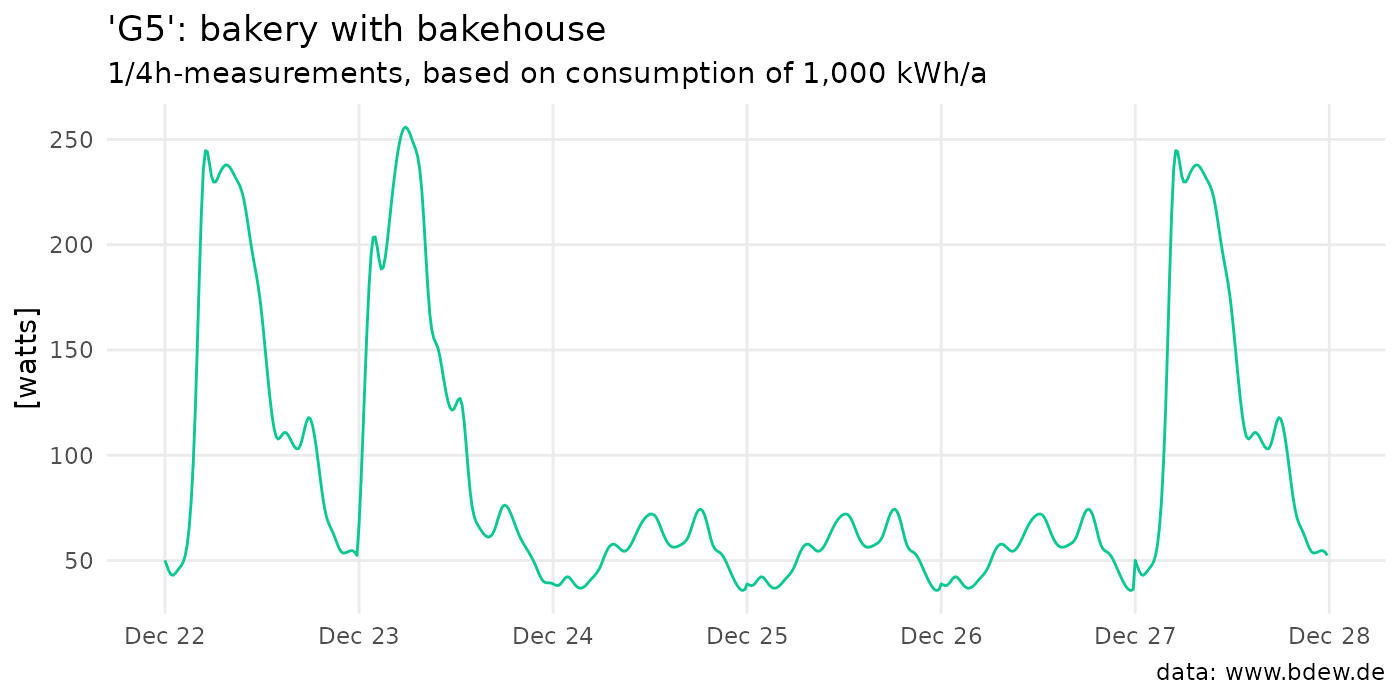
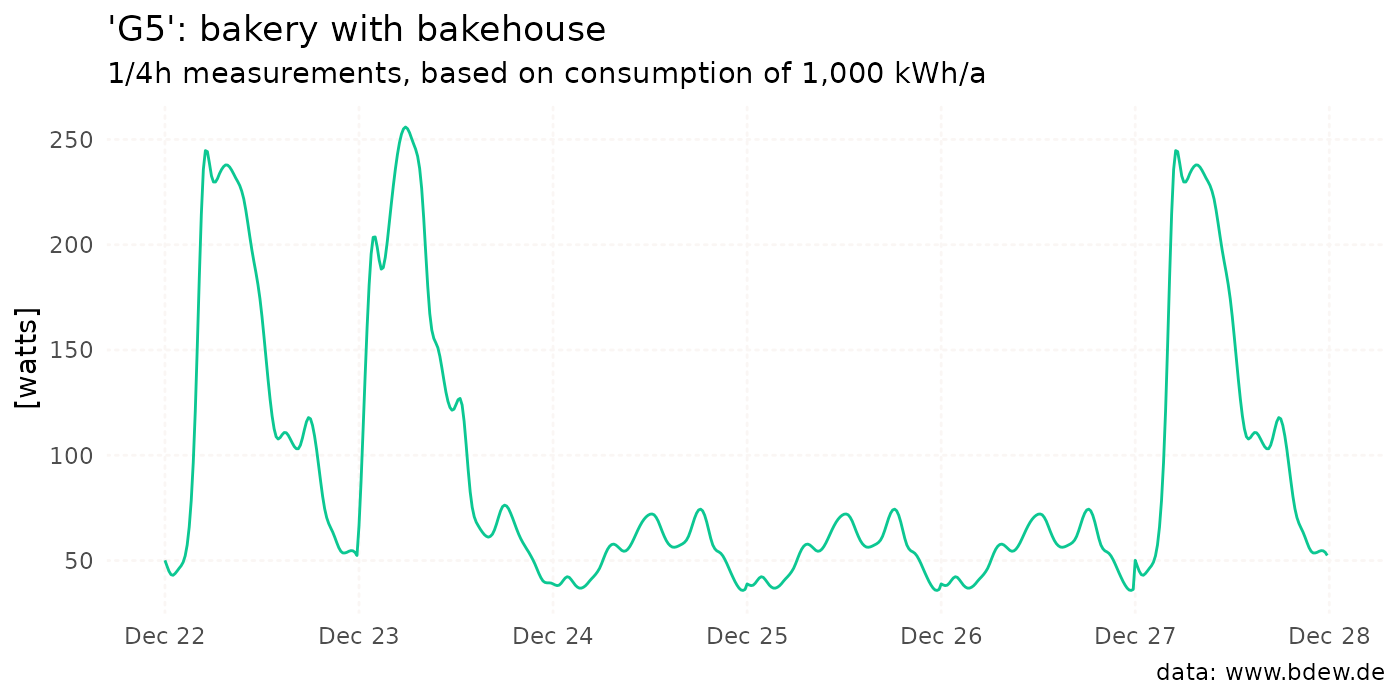
Deploying to gh-pages from @ flrd/standardlastprofile@7e2a223ec3bfba39816d9a991a93d812dd507851 🚀

Changed region(s): [[0.1229, 0.09, 0.7064, 0.12]]

diff --git a/index.html b/index.html
@@ -7,12 +7,11 @@
 <meta name="viewport" content="width=device-width, initial-scale=1, shrink-to-fit=no">
 <meta name="description" content='Data on standard load profiles from the German Association of 
   Energy and Water Industries (BDEW Bundesverband der Energie- und 
-  Wasserwirtschaft e.V.) in a tidy format. This package also offers an interface
-  for generating a standard load profile over a user-defined period. The data 
-  and methodology are described in VDEW (1999), "Repräsentative 
-  VDEW-Lastprofile", 
+  Wasserwirtschaft e.V.) in a tidy format. The data and methodology are 
+  described in VDEW (1999), "Repräsentative VDEW-Lastprofile", 
   &lt;https://www.bdew.de/media/documents/1999_Repraesentative-VDEW-Lastprofile.pdf&gt;.
-  For the algorithm to generate a standard load profile, see VDEW (2000), 
+  The package also offers an interface for generating a standard load profile 
+  over a user-defined period. For the algorithm, see VDEW (2000), 
   "Anwendung der Repräsentativen VDEW-Lastprofile step-by-step",
   &lt;https://www.bdew.de/media/documents/2000131_Anwendung-repraesentativen_Lastprofile-Step-by-step.pdf&gt;.'>
 <title>Data Package for BDEW Standard Load Profiles in Electricity • standardlastprofile</title>
@@ -23,12 +22,11 @@
 <!-- bootstrap-toc --><script src="https://cdn.jsdelivr.net/gh/afeld/bootstrap-toc@v1.0.1/dist/bootstrap-toc.min.js" integrity="sha256-4veVQbu7//Lk5TSmc7YV48MxtMy98e26cf5MrgZYnwo=" crossorigin="anonymous"></script><!-- headroom.js --><script src="https://cdnjs.cloudflare.com/ajax/libs/headroom/0.11.0/headroom.min.js" integrity="sha256-AsUX4SJE1+yuDu5+mAVzJbuYNPHj/WroHuZ8Ir/CkE0=" crossorigin="anonymous"></script><script src="https://cdnjs.cloudflare.com/ajax/libs/headroom/0.11.0/jQuery.headroom.min.js" integrity="sha256-ZX/yNShbjqsohH1k95liqY9Gd8uOiE1S4vZc+9KQ1K4=" crossorigin="anonymous"></script><!-- clipboard.js --><script src="https://cdnjs.cloudflare.com/ajax/libs/clipboard.js/2.0.6/clipboard.min.js" integrity="sha256-inc5kl9MA1hkeYUt+EC3BhlIgyp/2jDIyBLS6k3UxPI=" crossorigin="anonymous"></script><!-- search --><script src="https://cdnjs.cloudflare.com/ajax/libs/fuse.js/6.4.6/fuse.js" integrity="sha512-zv6Ywkjyktsohkbp9bb45V6tEMoWhzFzXis+LrMehmJZZSys19Yxf1dopHx7WzIKxr5tK2dVcYmaCk2uqdjF4A==" crossorigin="anonymous"></script><script src="https://cdnjs.cloudflare.com/ajax/libs/autocomplete.js/0.38.0/autocomplete.jquery.min.js" integrity="sha512-GU9ayf+66Xx2TmpxqJpliWbT5PiGYxpaG8rfnBEk1LL8l1KGkRShhngwdXK1UgqhAzWpZHSiYPc09/NwDQIGyg==" crossorigin="anonymous"></script><script src="https://cdnjs.cloudflare.com/ajax/libs/mark.js/8.11.1/mark.min.js" integrity="sha512-5CYOlHXGh6QpOFA/TeTylKLWfB3ftPsde7AnmhuitiTX4K5SqCLBeKro6sPS8ilsz1Q4NRx3v8Ko2IBiszzdww==" crossorigin="anonymous"></script><!-- pkgdown --><script src="pkgdown.js"></script><meta property="og:title" content="Data Package for BDEW Standard Load Profiles in Electricity">
 <meta property="og:description" content='Data on standard load profiles from the German Association of 
   Energy and Water Industries (BDEW Bundesverband der Energie- und 
-  Wasserwirtschaft e.V.) in a tidy format. This package also offers an interface
-  for generating a standard load profile over a user-defined period. The data 
-  and methodology are described in VDEW (1999), "Repräsentative 
-  VDEW-Lastprofile", 
+  Wasserwirtschaft e.V.) in a tidy format. The data and methodology are 
+  described in VDEW (1999), "Repräsentative VDEW-Lastprofile", 
   &lt;https://www.bdew.de/media/documents/1999_Repraesentative-VDEW-Lastprofile.pdf&gt;.
-  For the algorithm to generate a standard load profile, see VDEW (2000), 
+  The package also offers an interface for generating a standard load profile 
+  over a user-defined period. For the algorithm, see VDEW (2000), 
   "Anwendung der Repräsentativen VDEW-Lastprofile step-by-step",
   &lt;https://www.bdew.de/media/documents/2000131_Anwendung-repraesentativen_Lastprofile-Step-by-step.pdf&gt;.'>
 <!-- mathjax --><script src="https://cdnjs.cloudflare.com/ajax/libs/mathjax/2.7.5/MathJax.js" integrity="sha256-nvJJv9wWKEm88qvoQl9ekL2J+k/RWIsaSScxxlsrv8k=" crossorigin="anonymous"></script><script src="https://cdnjs.cloudflare.com/ajax/libs/mathjax/2.7.5/config/TeX-AMS-MML_HTMLorMML.js" integrity="sha256-84DKXVJXs0/F8OTMzX4UR909+jtl4G7SPypPavF+GfA=" crossorigin="anonymous"></script><!--[if lt IE 9]>
@@ -96,38 +94,38 @@
 <div class="section level2">
 <h2 id="installation">Installation<a class="anchor" aria-label="anchor" href="#installation"></a>
 </h2>
-<!-- You can install the released version of standardlastprofile from CRAN with: -->
+<!-- You can install standardlastprofile from CRAN with: -->
 <!-- ```{r eval=FALSE} -->
 <!-- install.packages("standardlastprofile") -->
 <!-- ``` -->
-<p>To install the development version of standardlastprofile from <a href="https://github.com/" class="external-link">GitHub</a>, call:</p>
+<p>You can install the development version of standardlastprofile from <a href="https://github.com/" class="external-link">GitHub</a>, call:</p>
 <div class="sourceCode" id="cb1"><pre class="downlit sourceCode r">
 <code class="sourceCode R"><span><span class="co"># install.packages("devtools")</span></span>
 <span><span class="fu">devtools</span><span class="fu">::</span><span class="fu">install_github</span><span class="op">(</span><span class="st">"flrd/standardlastprofile"</span><span class="op">)</span></span></code></pre></div>
 </div>
 <div class="section level2">
-<h2 id="what-will-you-get">What will you get<a class="anchor" aria-label="anchor" href="#what-will-you-get"></a>
+<h2 id="included-features">Included Features<a class="anchor" aria-label="anchor" href="#included-features"></a>
 </h2>
 <ul>
 <li>
-<code>slp</code> – dataset for BDEW standard load profiles in electricity</li>
+<code>slp</code> – A dataset containing BDEW standard load profiles for electricity.</li>
 <li>
-<code><a href="reference/slp_generate.html">slp_generate()</a></code> – interface to generate a standard load profile for a user-defined period of time</li>
+<code><a href="reference/slp_generate.html">slp_generate()</a></code> – An interface for generating a standard load profile for a user-defined time period.</li>
 <li>
-<code><a href="reference/slp_info.html">slp_info()</a></code> – function for retrieving details of standard load profiles</li>
+<code><a href="reference/slp_info.html">slp_info()</a></code> – A function for retrieving details of standard load profiles.</li>
 </ul>
 </div>
 <div class="section level2">
 <h2 id="about-the-data">About the data<a class="anchor" aria-label="anchor" href="#about-the-data"></a>
 </h2>
-<p>The standardlastprofile package contains one dataset called <code>slp</code>. The data was published in 1999. It is based on an analysis of 1,209 load profiles of low-voltage electricity consumers in Germany.<a class="footnote-ref" tabindex="0" data-bs-toggle="popover" data-bs-content='&lt;p&gt;More information on the data and methodology can be found &lt;a href="https://www.bdew.de/media/documents/1999_Repraesentative-VDEW-Lastprofile.pdf" class="external-link"&gt;here&lt;/a&gt;.&lt;/p&gt;'><sup>1</sup></a> In total there are 9,504 observations of 5 variables:</p>
+<p>The standardlastprofile package encompasses a dataset named slp. This dataset results from an analysis of 1,209 load profiles of low-voltage electricity consumers in Germany, published in 1999.<a class="footnote-ref" tabindex="0" data-bs-toggle="popover" data-bs-content='&lt;p&gt;More information on the data and methodology can be found &lt;a href="https://www.bdew.de/media/documents/1999_Repraesentative-VDEW-Lastprofile.pdf" class="external-link"&gt;here&lt;/a&gt;.&lt;/p&gt;'><sup>1</sup></a> It comprises a total of 9,504 observations across 5 variables:</p>
 <ul>
 <li>
-<code>profile_id</code>: identifier of standard load profile</li>
+<code>profile_id</code>: identifier of a standard load profile</li>
 <li>
 <code>period</code>: one of “summer”, “winter”, “transition”</li>
 <li>
-<code>day</code>: one of “saturday”, “sunday”, “workday”</li>
+<code>day</code>: one of “workday”, “saturday”, “sunday”</li>
 <li>
 <code>timestamp</code>: format “%H:%M”</li>
 <li>
@@ -142,7 +140,7 @@
 <span><span class="co">#&gt;  $ timestamp : chr  "00:00" "00:15" "00:30" "00:45" ...</span></span>
 <span><span class="co">#&gt;  $ watts     : num  70.8 68.2 65.9 63.3 59.5 55 50.5 46.6 43.9 42.3 ...</span></span></code></pre></div>
 <p>In the context of the German electricity market, the term ‘Standard Load Profile’ denotes a representative pattern of electricity consumption over a specific period. These profiles portray anticipated electricity consumption for diverse customer groups, like households or businesses. While not an exact match for an individual customer’s consumption profile, they serve as a valid approximation for larger groups of similar customers.</p>
-<p>For each unique combination of <code>profile_id</code>, <code>period</code> and <code>day</code> there are 96 x 1/4 hour measurements in watts. If <code>H0</code> keeps you puzzled, you are not alone:</p>
+<p>For each unique combination of <code>profile_id</code>, <code>period</code> and <code>day</code> there are 96 x 1/4 hour measurements in watts. If you have no idea what <code>H0</code> means, you are not alone:</p>
 <ul>
 <li>
 <code>H0</code>: households (German: “Haushalte”)</li>
@@ -153,20 +151,20 @@
 </ul>
 <p>For more details, call the <code><a href="reference/slp_info.html">slp_info()</a></code> function.</p>
 <div class="sourceCode" id="cb3"><pre class="downlit sourceCode r">
-<code class="sourceCode R"><span><span class="fu"><a href="reference/slp_info.html">slp_info</a></span><span class="op">(</span>profile_id <span class="op">=</span> <span class="st">"H0"</span>, language <span class="op">=</span> <span class="st">"EN"</span><span class="op">)</span></span>
+<code class="sourceCode R"><span><span class="fu"><a href="reference/slp_info.html">slp_info</a></span><span class="op">(</span>profile_id <span class="op">=</span> <span class="st">"H0"</span>, language <span class="op">=</span> <span class="st">"DE"</span><span class="op">)</span></span>
 <span><span class="co">#&gt; $H0</span></span>
 <span><span class="co">#&gt; $H0$profile</span></span>
 <span><span class="co">#&gt; [1] "H0"</span></span>
 <span><span class="co">#&gt; </span></span>
 <span><span class="co">#&gt; $H0$description</span></span>
-<span><span class="co">#&gt; [1] "household"</span></span>
+<span><span class="co">#&gt; [1] "Haushalt"</span></span>
 <span><span class="co">#&gt; </span></span>
 <span><span class="co">#&gt; $H0$details</span></span>
-<span><span class="co">#&gt; [1] "This profile includes all households with exclusively and predominantly private consumption. Households with predominantly private electrical consumption, i.e. also with minor commercial consumption are e.g. sales representatives, home workers, etc. with an office in the household. The Household profile is not applicable for special applications such as storage heaters or heat pumps."</span></span></code></pre></div>
+<span><span class="co">#&gt; [1] "In dieses Profil werden alle Haushalte mit ausschließlichem und überwiegendem Privatverbrauch eingeordnet. Haushalte mit überwiegend privatem elektrischen Verbrauch, d.h. auch mit geringfügigem gewerblichen Bedarf sind z.B. Handelsvertreter, Heimarbeiter u.ä. mit Büro im Haushalt. Das Profil Haushalt ist nicht anwendbar bei Sonderanwendungen wie z.B. elektrischen Speicherheizungen oder Wärmepumpen."</span></span></code></pre></div>
 <div class="section level3">
 <h3 id="generate-a-standard-load-profile">Generate a standard load profile<a class="anchor" aria-label="anchor" href="#generate-a-standard-load-profile"></a>
 </h3>
-<p>To create a standard load profile for a specified time period, utilize the <code><a href="reference/slp_generate.html">slp_generate()</a></code> function:</p>
+<p>To create a standard load profile for a specified time period, call the <code><a href="reference/slp_generate.html">slp_generate()</a></code> function:</p>
 <div class="sourceCode" id="cb4"><pre class="downlit sourceCode r">
 <code class="sourceCode R"><span><span class="va">G5</span> <span class="op">&lt;-</span> <span class="fu"><a href="reference/slp_generate.html">slp_generate</a></span><span class="op">(</span></span>
 <span>  profile_id <span class="op">=</span> <span class="st">"G5"</span>,</span>
@@ -189,7 +187,7 @@
 <div class="section level2">
 <h2 id="source">Source<a class="anchor" aria-label="anchor" href="#source"></a>
 </h2>
-<p>Data and information about the methodology can be found on website of the BDEW: <a href="https://www.bdew.de/energie/standardlastprofile-strom/" class="external-link uri">https://www.bdew.de/energie/standardlastprofile-strom/</a></p>
+<p>You can access the studies and data on standard load profiles for electricity by downloading them from the BDEW website: <a href="https://www.bdew.de/energie/standardlastprofile-strom/" class="external-link uri">https://www.bdew.de/energie/standardlastprofile-strom/</a></p>
 </div>
 <div class="section level2">
 <h2 id="code-of-conduct">Code of Conduct<a class="anchor" aria-label="anchor" href="#code-of-conduct"></a>

diff --git a/reference/standardlastprofile-package.html b/reference/standardlastprofile-package.html
@@ -1,5 +1,5 @@
 <!DOCTYPE html>
-<!-- Generated by pkgdown: do not edit by hand --><html lang="en"><head><meta http-equiv="Content-Type" content="text/html; charset=UTF-8"><meta charset="utf-8"><meta http-equiv="X-UA-Compatible" content="IE=edge"><meta name="viewport" content="width=device-width, initial-scale=1, shrink-to-fit=no"><meta name="description" content='Data on standard load profiles from the German Association of Energy and Water Industries (BDEW Bundesverband der Energie- und Wasserwirtschaft e.V.) in a tidy format. This package also offers an interface for generating a standard load profile over a user-defined period. The data and methodology are described in VDEW (1999), "Repräsentative VDEW-Lastprofile", https://www.bdew.de/media/documents/1999_Repraesentative-VDEW-Lastprofile.pdf. For the algorithm to generate a standard load profile, see VDEW (2000), "Anwendung der Repräsentativen VDEW-Lastprofile step-by-step", https://www.bdew.de/media/documents/2000131_Anwendung-repraesentativen_Lastprofile-Step-by-step.pdf.'><title>standardlastprofile: Data Package for BDEW Standard Load Profiles in Electricity — standardlastprofile-package • standardlastprofile</title><script src="../deps/jquery-3.6.0/jquery-3.6.0.min.js"></script><meta name="viewport" content="width=device-width, initial-scale=1, shrink-to-fit=no"><link href="../deps/bootstrap-5.3.1/bootstrap.min.css" rel="stylesheet"><script src="../deps/bootstrap-5.3.1/bootstrap.bundle.min.js"></script><!-- Font Awesome icons --><link rel="stylesheet" href="https://cdnjs.cloudflare.com/ajax/libs/font-awesome/5.12.1/css/all.min.css" integrity="sha256-mmgLkCYLUQbXn0B1SRqzHar6dCnv9oZFPEC1g1cwlkk=" crossorigin="anonymous"><link rel="stylesheet" href="https://cdnjs.cloudflare.com/ajax/libs/font-awesome/5.12.1/css/v4-shims.min.css" integrity="sha256-wZjR52fzng1pJHwx4aV2AO3yyTOXrcDW7jBpJtTwVxw=" crossorigin="anonymous"><!-- bootstrap-toc --><script src="https://cdn.jsdelivr.net/gh/afeld/bootstrap-toc@v1.0.1/dist/bootstrap-toc.min.js" integrity="sha256-4veVQbu7//Lk5TSmc7YV48MxtMy98e26cf5MrgZYnwo=" crossorigin="anonymous"></script><!-- headroom.js --><script src="https://cdnjs.cloudflare.com/ajax/libs/headroom/0.11.0/headroom.min.js" integrity="sha256-AsUX4SJE1+yuDu5+mAVzJbuYNPHj/WroHuZ8Ir/CkE0=" crossorigin="anonymous"></script><script src="https://cdnjs.cloudflare.com/ajax/libs/headroom/0.11.0/jQuery.headroom.min.js" integrity="sha256-ZX/yNShbjqsohH1k95liqY9Gd8uOiE1S4vZc+9KQ1K4=" crossorigin="anonymous"></script><!-- clipboard.js --><script src="https://cdnjs.cloudflare.com/ajax/libs/clipboard.js/2.0.6/clipboard.min.js" integrity="sha256-inc5kl9MA1hkeYUt+EC3BhlIgyp/2jDIyBLS6k3UxPI=" crossorigin="anonymous"></script><!-- search --><script src="https://cdnjs.cloudflare.com/ajax/libs/fuse.js/6.4.6/fuse.js" integrity="sha512-zv6Ywkjyktsohkbp9bb45V6tEMoWhzFzXis+LrMehmJZZSys19Yxf1dopHx7WzIKxr5tK2dVcYmaCk2uqdjF4A==" crossorigin="anonymous"></script><script src="https://cdnjs.cloudflare.com/ajax/libs/autocomplete.js/0.38.0/autocomplete.jquery.min.js" integrity="sha512-GU9ayf+66Xx2TmpxqJpliWbT5PiGYxpaG8rfnBEk1LL8l1KGkRShhngwdXK1UgqhAzWpZHSiYPc09/NwDQIGyg==" crossorigin="anonymous"></script><script src="https://cdnjs.cloudflare.com/ajax/libs/mark.js/8.11.1/mark.min.js" integrity="sha512-5CYOlHXGh6QpOFA/TeTylKLWfB3ftPsde7AnmhuitiTX4K5SqCLBeKro6sPS8ilsz1Q4NRx3v8Ko2IBiszzdww==" crossorigin="anonymous"></script><!-- pkgdown --><script src="../pkgdown.js"></script><meta property="og:title" content="standardlastprofile: Data Package for BDEW Standard Load Profiles in Electricity — standardlastprofile-package"><meta property="og:description" content='Data on standard load profiles from the German Association of Energy and Water Industries (BDEW Bundesverband der Energie- und Wasserwirtschaft e.V.) in a tidy format. This package also offers an interface for generating a standard load profile over a user-defined period. The data and methodology are described in VDEW (1999), "Repräsentative VDEW-Lastprofile", https://www.bdew.de/media/documents/1999_Repraesentative-VDEW-Lastprofile.pdf. For the algorithm to generate a standard load profile, see VDEW (2000), "Anwendung der Repräsentativen VDEW-Lastprofile step-by-step", https://www.bdew.de/media/documents/2000131_Anwendung-repraesentativen_Lastprofile-Step-by-step.pdf.'><!-- mathjax --><script src="https://cdnjs.cloudflare.com/ajax/libs/mathjax/2.7.5/MathJax.js" integrity="sha256-nvJJv9wWKEm88qvoQl9ekL2J+k/RWIsaSScxxlsrv8k=" crossorigin="anonymous"></script><script src="https://cdnjs.cloudflare.com/ajax/libs/mathjax/2.7.5/config/TeX-AMS-MML_HTMLorMML.js" integrity="sha256-84DKXVJXs0/F8OTMzX4UR909+jtl4G7SPypPavF+GfA=" crossorigin="anonymous"></script><!--[if lt IE 9]>
+<!-- Generated by pkgdown: do not edit by hand --><html lang="en"><head><meta http-equiv="Content-Type" content="text/html; charset=UTF-8"><meta charset="utf-8"><meta http-equiv="X-UA-Compatible" content="IE=edge"><meta name="viewport" content="width=device-width, initial-scale=1, shrink-to-fit=no"><meta name="description" content='Data on standard load profiles from the German Association of Energy and Water Industries (BDEW Bundesverband der Energie- und Wasserwirtschaft e.V.) in a tidy format. The data and methodology are described in VDEW (1999), "Repräsentative VDEW-Lastprofile", https://www.bdew.de/media/documents/1999_Repraesentative-VDEW-Lastprofile.pdf. The package also offers an interface for generating a standard load profile over a user-defined period. For the algorithm, see VDEW (2000), "Anwendung der Repräsentativen VDEW-Lastprofile step-by-step", https://www.bdew.de/media/documents/2000131_Anwendung-repraesentativen_Lastprofile-Step-by-step.pdf.'><title>standardlastprofile: Data Package for BDEW Standard Load Profiles in Electricity — standardlastprofile-package • standardlastprofile</title><script src="../deps/jquery-3.6.0/jquery-3.6.0.min.js"></script><meta name="viewport" content="width=device-width, initial-scale=1, shrink-to-fit=no"><link href="../deps/bootstrap-5.3.1/bootstrap.min.css" rel="stylesheet"><script src="../deps/bootstrap-5.3.1/bootstrap.bundle.min.js"></script><!-- Font Awesome icons --><link rel="stylesheet" href="https://cdnjs.cloudflare.com/ajax/libs/font-awesome/5.12.1/css/all.min.css" integrity="sha256-mmgLkCYLUQbXn0B1SRqzHar6dCnv9oZFPEC1g1cwlkk=" crossorigin="anonymous"><link rel="stylesheet" href="https://cdnjs.cloudflare.com/ajax/libs/font-awesome/5.12.1/css/v4-shims.min.css" integrity="sha256-wZjR52fzng1pJHwx4aV2AO3yyTOXrcDW7jBpJtTwVxw=" crossorigin="anonymous"><!-- bootstrap-toc --><script src="https://cdn.jsdelivr.net/gh/afeld/bootstrap-toc@v1.0.1/dist/bootstrap-toc.min.js" integrity="sha256-4veVQbu7//Lk5TSmc7YV48MxtMy98e26cf5MrgZYnwo=" crossorigin="anonymous"></script><!-- headroom.js --><script src="https://cdnjs.cloudflare.com/ajax/libs/headroom/0.11.0/headroom.min.js" integrity="sha256-AsUX4SJE1+yuDu5+mAVzJbuYNPHj/WroHuZ8Ir/CkE0=" crossorigin="anonymous"></script><script src="https://cdnjs.cloudflare.com/ajax/libs/headroom/0.11.0/jQuery.headroom.min.js" integrity="sha256-ZX/yNShbjqsohH1k95liqY9Gd8uOiE1S4vZc+9KQ1K4=" crossorigin="anonymous"></script><!-- clipboard.js --><script src="https://cdnjs.cloudflare.com/ajax/libs/clipboard.js/2.0.6/clipboard.min.js" integrity="sha256-inc5kl9MA1hkeYUt+EC3BhlIgyp/2jDIyBLS6k3UxPI=" crossorigin="anonymous"></script><!-- search --><script src="https://cdnjs.cloudflare.com/ajax/libs/fuse.js/6.4.6/fuse.js" integrity="sha512-zv6Ywkjyktsohkbp9bb45V6tEMoWhzFzXis+LrMehmJZZSys19Yxf1dopHx7WzIKxr5tK2dVcYmaCk2uqdjF4A==" crossorigin="anonymous"></script><script src="https://cdnjs.cloudflare.com/ajax/libs/autocomplete.js/0.38.0/autocomplete.jquery.min.js" integrity="sha512-GU9ayf+66Xx2TmpxqJpliWbT5PiGYxpaG8rfnBEk1LL8l1KGkRShhngwdXK1UgqhAzWpZHSiYPc09/NwDQIGyg==" crossorigin="anonymous"></script><script src="https://cdnjs.cloudflare.com/ajax/libs/mark.js/8.11.1/mark.min.js" integrity="sha512-5CYOlHXGh6QpOFA/TeTylKLWfB3ftPsde7AnmhuitiTX4K5SqCLBeKro6sPS8ilsz1Q4NRx3v8Ko2IBiszzdww==" crossorigin="anonymous"></script><!-- pkgdown --><script src="../pkgdown.js"></script><meta property="og:title" content="standardlastprofile: Data Package for BDEW Standard Load Profiles in Electricity — standardlastprofile-package"><meta property="og:description" content='Data on standard load profiles from the German Association of Energy and Water Industries (BDEW Bundesverband der Energie- und Wasserwirtschaft e.V.) in a tidy format. The data and methodology are described in VDEW (1999), "Repräsentative VDEW-Lastprofile", https://www.bdew.de/media/documents/1999_Repraesentative-VDEW-Lastprofile.pdf. The package also offers an interface for generating a standard load profile over a user-defined period. For the algorithm, see VDEW (2000), "Anwendung der Repräsentativen VDEW-Lastprofile step-by-step", https://www.bdew.de/media/documents/2000131_Anwendung-repraesentativen_Lastprofile-Step-by-step.pdf.'><!-- mathjax --><script src="https://cdnjs.cloudflare.com/ajax/libs/mathjax/2.7.5/MathJax.js" integrity="sha256-nvJJv9wWKEm88qvoQl9ekL2J+k/RWIsaSScxxlsrv8k=" crossorigin="anonymous"></script><script src="https://cdnjs.cloudflare.com/ajax/libs/mathjax/2.7.5/config/TeX-AMS-MML_HTMLorMML.js" integrity="sha256-84DKXVJXs0/F8OTMzX4UR909+jtl4G7SPypPavF+GfA=" crossorigin="anonymous"></script><!--[if lt IE 9]>
 <script src="https://oss.maxcdn.com/html5shiv/3.7.3/html5shiv.min.js"></script>
 <script src="https://oss.maxcdn.com/respond/1.4.2/respond.min.js"></script>
 <![endif]--></head><body>
@@ -52,7 +52,7 @@
     </div>
 
     <div class="ref-description section level2">
-    <p>Data on standard load profiles from the German Association of Energy and Water Industries (BDEW Bundesverband der Energie- und Wasserwirtschaft e.V.) in a tidy format. This package also offers an interface for generating a standard load profile over a user-defined period. The data and methodology are described in VDEW (1999), "Repräsentative VDEW-Lastprofile", <a href="https://www.bdew.de/media/documents/1999_Repraesentative-VDEW-Lastprofile.pdf" class="external-link">https://www.bdew.de/media/documents/1999_Repraesentative-VDEW-Lastprofile.pdf</a>. For the algorithm to generate a standard load profile, see VDEW (2000), "Anwendung der Repräsentativen VDEW-Lastprofile step-by-step", <a href="https://www.bdew.de/media/documents/2000131_Anwendung-repraesentativen_Lastprofile-Step-by-step.pdf" class="external-link">https://www.bdew.de/media/documents/2000131_Anwendung-repraesentativen_Lastprofile-Step-by-step.pdf</a>.</p>
+    <p>Data on standard load profiles from the German Association of Energy and Water Industries (BDEW Bundesverband der Energie- und Wasserwirtschaft e.V.) in a tidy format. The data and methodology are described in VDEW (1999), "Repräsentative VDEW-Lastprofile", <a href="https://www.bdew.de/media/documents/1999_Repraesentative-VDEW-Lastprofile.pdf" class="external-link">https://www.bdew.de/media/documents/1999_Repraesentative-VDEW-Lastprofile.pdf</a>. The package also offers an interface for generating a standard load profile over a user-defined period. For the algorithm, see VDEW (2000), "Anwendung der Repräsentativen VDEW-Lastprofile step-by-step", <a href="https://www.bdew.de/media/documents/2000131_Anwendung-repraesentativen_Lastprofile-Step-by-step.pdf" class="external-link">https://www.bdew.de/media/documents/2000131_Anwendung-repraesentativen_Lastprofile-Step-by-step.pdf</a>.</p>
     </div>
 
 
@@ -65,7 +65,7 @@
     </div>
     <div class="section level2">
     <h2 id="author">Author<a class="anchor" aria-label="anchor" href="#author"></a></h2>
-    <p><strong>Maintainer</strong>: Markus Döring <a href="mailto:m4rkus.doering@gmail.com">m4rkus.doering@gmail.com</a> [copyright holder]</p>
+    <p><strong>Maintainer</strong>: Markus Döring <a href="mailto:m4rkus.doering@gmail.com">m4rkus.doering@gmail.com</a></p>
     </div>
 
   </main><aside class="col-md-3"><nav id="toc"><h2>On this page</h2>

diff --git a/articles/algorithm-step-by-step.html b/articles/algorithm-step-by-step.html
@@ -104,14 +104,10 @@ profile as the basis for creating a consumption forecast.</p>
 unique combination of <code>profile_id</code>, <code>period</code> and
 <code>day</code>, which we refer to as the “standard load profile”. The
 value for “00:00” indicates the average work done in the morning between
-00:00 and 00:15. The data was collected and analyzed in 1999 by the
-Association of the Electricity Industry<a class="footnote-ref" tabindex="0" data-bs-toggle="popover" data-bs-content="&lt;p&gt;VDEW, which once represented approximately 750 German
-energy supply companies, advocated for their interests with both
-politicians and consumers. In 2007, VDEW merged into the BDEW.&lt;/p&gt;"><sup>2</sup></a> (VDEW) on the basis of
-1,209 measured load profiles of low-voltage customers in Germany<a class="footnote-ref" tabindex="0" data-bs-toggle="popover" data-bs-content='&lt;p&gt;More information on the data and methodology can be
-found &lt;a href="https://www.bdew.de/media/documents/1999_Repraesentative-VDEW-Lastprofile.pdf" class="external-link"&gt;here&lt;/a&gt;.&lt;/p&gt;'><sup>3</sup></a> and is
+00:00 and 00:15. The data was collected and analyzed in 1999 and is
 provided by German Association of Energy and Water Industries (BDEW
-Bundesverband der Energie- und Wasserwirtschaft e.V.).</p>
+Bundesverband der Energie- und Wasserwirtschaft e.V.).<a class="footnote-ref" tabindex="0" data-bs-toggle="popover" data-bs-content='&lt;p&gt;More information on the data and methodology can be
+found &lt;a href="https://www.bdew.de/media/documents/1999_Repraesentative-VDEW-Lastprofile.pdf" class="external-link"&gt;here&lt;/a&gt;.&lt;/p&gt;'><sup>2</sup></a></p>
 <p><img src="algorithm-step-by-step_files/figure-html/small_multiples_vignette-1.png" alt="Small multiple line chart of 11 standard load profiles published by the German Association of Energy and Water Industries (BDEW Bundesverband der Energie- und Wasserwirtschaft e.V.). The lines compare the consumption for three different periods over a year, and also compare the consumption between different days of a week." width="95%" style="display: block; margin: auto;"></p>
 <p>Those measurements are normalized to an annual consumption of 1,000
 kWh. So, if we sum up all the quarter-hour consumption values for a
@@ -126,7 +122,7 @@ year, the result is (approximately) 1,000 kWh/year.</p>
 <div class="sourceCode" id="cb3"><pre class="downlit sourceCode r">
 <code class="sourceCode R"><span><span class="fu"><a href="https://rdrr.io/r/base/sum.html" class="external-link">sum</a></span><span class="op">(</span><span class="va">H0_2024</span><span class="op">$</span><span class="va">watts</span><span class="op">)</span></span>
 <span><span class="co">#&gt; [1] 4008335</span></span></code></pre></div>
-<p>‘Hold on - didn’t you just say 1,000?!’ you might be thinking. Yes,
+<p>‘Hold on - didn’t you just say 1,000?!’, you might be thinking. Yes,
 you are correct; we must <a href="https://en.wikipedia.org/wiki/Watt#Distinction_between_watts_and_watt-hours" class="external-link">convert
 power units into energy units</a>. The values returned are 1/4-hour
 measurements in watts. To convert the values to watt-hours, we must,
@@ -138,10 +134,8 @@ kilowatt-hour, we also divide by 1,000:</p>
 <div class="section level2">
 <h2 id="algorithm-step-by-step">Algorithm step by step<a class="anchor" aria-label="anchor" href="#algorithm-step-by-step"></a>
 </h2>
-<p>When you call <code><a href="../reference/slp_generate.html">slp_generate()</a></code>, you (surprise!) generate a
-standard load profile given a profile identifier, whereby several
-profile identifiers are supported simultaneously. These are the steps
-that are then performed:</p>
+<p>When you call <code><a href="../reference/slp_generate.html">slp_generate()</a></code>, you generate (surprise!) a
+standard load profile. These are the steps that are then performed:</p>
 <ol style="list-style-type: decimal">
 <li><p>Generate a date sequence from <code>start_date</code> to
 <code>end_date</code>.</p></li>
@@ -149,7 +143,7 @@ that are then performed:</p>
 <code>period</code>.</p></li>
 <li><p>Use result from 2nd step to extract values from
 <code>slp</code>.<a class="footnote-ref" tabindex="0" data-bs-toggle="popover" data-bs-content="&lt;p&gt;That is actually a lie. There is an internal data object
-from which the data is extracted for effiecency.&lt;/p&gt;"><sup>4</sup></a></p></li>
+from which the data is extracted for efficiency.&lt;/p&gt;"><sup>3</sup></a></p></li>
 <li><p>Apply polynomial function to values of profile identifier
 <code>H0</code>.</p></li>
 <li><p>Return data.</p></li>
@@ -262,14 +256,19 @@ the algorithm’s outcome:</p>
 <span>    date_labels <span class="op">=</span> <span class="st">"%b %d"</span><span class="op">)</span> <span class="op">+</span></span>
 <span>  <span class="fu"><a href="https://ggplot2.tidyverse.org/reference/labs.html" class="external-link">labs</a></span><span class="op">(</span></span>
 <span>    title <span class="op">=</span> <span class="st">"'G5': bakery with bakehouse"</span>,</span>
-<span>    subtitle <span class="op">=</span> <span class="st">"1/4h-measurements, based on consumption of 1,000 kWh/a"</span>,</span>
+<span>    subtitle <span class="op">=</span> <span class="st">"1/4h measurements, based on consumption of 1,000 kWh/a"</span>,</span>
 <span>    caption <span class="op">=</span> <span class="st">"data: www.bdew.de"</span>,</span>
 <span>    x <span class="op">=</span> <span class="cn">NULL</span>,</span>
 <span>    y <span class="op">=</span> <span class="st">"[watts]"</span><span class="op">)</span> <span class="op">+</span></span>
 <span>  <span class="fu"><a href="https://ggplot2.tidyverse.org/reference/ggtheme.html" class="external-link">theme_minimal</a></span><span class="op">(</span><span class="op">)</span> <span class="op">+</span></span>
 <span>  <span class="fu"><a href="https://ggplot2.tidyverse.org/reference/theme.html" class="external-link">theme</a></span><span class="op">(</span></span>
-<span>      panel.grid.minor.x <span class="op">=</span> <span class="fu"><a href="https://ggplot2.tidyverse.org/reference/element.html" class="external-link">element_blank</a></span><span class="op">(</span><span class="op">)</span>,</span>
-<span>      panel.grid.minor.y <span class="op">=</span> <span class="fu"><a href="https://ggplot2.tidyverse.org/reference/element.html" class="external-link">element_blank</a></span><span class="op">(</span><span class="op">)</span></span>
+<span>    panel.grid.minor.x <span class="op">=</span> <span class="fu"><a href="https://ggplot2.tidyverse.org/reference/element.html" class="external-link">element_blank</a></span><span class="op">(</span><span class="op">)</span>,</span>
+<span>    panel.grid.minor.y <span class="op">=</span> <span class="fu"><a href="https://ggplot2.tidyverse.org/reference/element.html" class="external-link">element_blank</a></span><span class="op">(</span><span class="op">)</span>,</span>
+<span>    panel.grid <span class="op">=</span> <span class="fu"><a href="https://ggplot2.tidyverse.org/reference/element.html" class="external-link">element_line</a></span><span class="op">(</span></span>
+<span>      linetype <span class="op">=</span> <span class="st">"12"</span>,</span>
+<span>      lineend <span class="op">=</span> <span class="st">"round"</span>,</span>
+<span>      colour <span class="op">=</span> <span class="st">"#FAF6F4"</span></span>
+<span>      <span class="op">)</span></span>
 <span>  <span class="op">)</span> <span class="op">+</span></span>
 <span>  <span class="cn">NULL</span></span></code></pre></div>
 <p><img src="algorithm-step-by-step_files/figure-html/G5_plot_vignette-1.png" alt="Line plot of the BDEW standard load profile 'G5' (Bakery with a bakehouse) from December 22nd to December 27th 2023; values are normalized to an annual consumption of 1,000 kWh." width="95%" style="display: block; margin: auto;"></p>
@@ -298,16 +297,16 @@ a dynamization factor.</p>
 The study suggested the application of a 4th order polynomial function
 to the values of standard load profile <code>H0</code>.</p>
 <p><span class="math display">\[
-w = w_0 \times(-3.92\mathrm{e}{-10} \times d^4 + 3.20\mathrm{e}{-7}
+w_d = w_s \times(-3.92\mathrm{e}{-10} \times d^4 + 3.20\mathrm{e}{-7}
 \times  d^3 - 7.02\mathrm{e}{-5} \times d^2 + 2.10\mathrm{e}{-3} \times
 d + 1.24)
 \]</span> Where:</p>
 <ul>
 <li>
-<span class="math inline">\(w\)</span> is the resulting ‘dynamic’
+<span class="math inline">\(w_d\)</span> is the resulting ‘dynamic’
 quarter-hour value</li>
 <li>
-<span class="math inline">\(w_0\)</span> is the static
+<span class="math inline">\(w_s\)</span> is the static
 quarter-hourly value</li>
 <li>
 <span class="math inline">\(d\)</span> is the day of the year as
@@ -318,17 +317,11 @@ year for profile <code>H0</code>; for a clearer picture, the values are
 aggregated at daily level:</p>
 <p><img src="algorithm-step-by-step_files/figure-html/H0_2024_plot-1.png" alt="Line plot of standard load profile 'H0' (households) aggregated by day from January 1st to December 31st, 2023. The plot shows that households have a continuously decreasing load from winter to summer and vice versa." width="95%" style="display: block; margin: auto;"></p>
 <p>This multiplication process aims to generate a representative,
-dynamic load profile.Finally, the following chart compares the static
-values with their dynamic counterparts.<a class="footnote-ref" tabindex="0" data-bs-toggle="popover" data-bs-content='&lt;p&gt;Refer to page 9 in &lt;a href="https://www.bdew.de/media/documents/2000131_Anwendung-repraesentativen_Lastprofile-Step-by-step.pdf" class="external-link"&gt;Anwendung
-der Repräsentativen VDEW-Lastprofile step-by-step&lt;/a&gt;.&lt;/p&gt;'><sup>5</sup></a></p>
-<p><img src="algorithm-step-by-step_files/figure-html/H0_dynamic-1.png" width="95%" style="display: block; margin: auto;"></p>
+dynamic load profile. Finally, the following chart compares the dynamic
+values with their static counterparts.<a class="footnote-ref" tabindex="0" data-bs-toggle="popover" data-bs-content='&lt;p&gt;Refer to page 9 in &lt;a href="https://www.bdew.de/media/documents/2000131_Anwendung-repraesentativen_Lastprofile-Step-by-step.pdf" class="external-link"&gt;Anwendung
+der Repräsentativen VDEW-Lastprofile step-by-step&lt;/a&gt;.&lt;/p&gt;'><sup>4</sup></a></p>
+<p><img src="algorithm-step-by-step_files/figure-html/H0_dynamic-1.png" alt="A plot of standard load profile 'H0' (households) that shows a comparision between the static values, and their dynamic counterparts." width="95%" style="display: block; margin: auto;"></p>
 </div>
-</div>
-<div class="section level2">
-<h2 id="final-words">Final words<a class="anchor" aria-label="anchor" href="#final-words"></a>
-</h2>
-<p>Use data with caution. Feel free to <a href="https://github.com/flrd/standardlastprofile/issues" class="external-link">create an
-issues</a> and suggest improvements.</p>
 </div>
 
   </main><aside class="col-md-3"><nav id="toc"><h2>On this page</h2>

diff --git a/reference/slp.html b/reference/slp.html
@@ -90,34 +90,24 @@ der Energie- und Wasserwirtschaft e.V.) in a tidy format.</p>
     <p><a href="https://www.bdew.de/energie/standardlastprofile-strom/" class="external-link">https://www.bdew.de/energie/standardlastprofile-strom/</a></p>
 <p><a href="https://www.bdew.de/media/documents/Profile.zip" class="external-link">https://www.bdew.de/media/documents/Profile.zip</a></p>
 <p><a href="https://www.bdew.de/media/documents/1999_Repraesentative-VDEW-Lastprofile.pdf" class="external-link">https://www.bdew.de/media/documents/1999_Repraesentative-VDEW-Lastprofile.pdf</a></p>
-<p><a href="https://www.bdew.de/media/documents/2000131_Anwendung-repraesentativen_Lastprofile-Step-by-step.pdf" class="external-link">https://www.bdew.de/media/documents/2000131_Anwendung-repraesentativen_Lastprofile-Step-by-step.pdf</a></p>
     </div>
     <div class="section level2">
     <h2 id="details">Details<a class="anchor" aria-label="anchor" href="#details"></a></h2>
     <p>There are 96 x 1/4h measurements of electrical power for each combination
 of <code>profile_id</code>, <code>period</code> and <code>day</code>, which we refer to as the "standard load
-profile". The data was determined in 1999 on the basis of 1,209 measured load
-profiles of low-voltage customers in Germany.</p>
-<p>For each profile identifier the measurements were normalized so that they
-correspond to an annual consumption of 1,000 kWh. So if we sum up all the
-quarter-hourly consumption values for one year, the result is (approximately)
-1,000 kWh/a.</p>
-<p><strong>Note</strong> The values given for profile H0 are only characteristic calculation
-values. Only through multiplication with the 4th order polynomial function do
-they become a representative and dynamized load profile for the group of
-household customers. This fact is taken care of in the function <code><a href="slp_generate.html">slp_generate()</a></code>,
-see <code><a href="../articles/algorithm-step-by-step.html">vignette("algorithm-step-by-step")</a></code> for more information.</p>
-<p>There are 11 standard load profiles for 3 different customer groups:</p><ul><li><p>households: <code>H0</code></p></li>
-<li><p>commercial: <code>G0</code>, <code>G1</code>, <code>G2</code>, <code>G3</code>, <code>G4</code>, <code>G5</code>, <code>G6</code></p></li>
-<li><p>agriculture: <code>L0</code>, <code>L1</code>, <code>L2</code></p></li>
+profile". This dataset results from an analysis of 1,209 load profiles of
+low-voltage electricity consumers in Germany, published in 1999.</p>
+<p>In total there are 11 <code>profile_id</code> for three different customer groups:</p><ul><li><p>Households: <code>H0</code></p></li>
+<li><p>Commercial: <code>G0</code>, <code>G1</code>, <code>G2</code>, <code>G3</code>, <code>G4</code>, <code>G5</code>, <code>G6</code></p></li>
+<li><p>Agriculture: <code>L0</code>, <code>L1</code>, <code>L2</code></p></li>
 </ul><p>Call <code><a href="slp_info.html">slp_info()</a></code> to for more information and examples.</p>
-<p>Periods are defined as:</p><ul><li><p><code>summer</code>: May 15 to September 14</p></li>
+<p>Period definitions:</p><ul><li><p><code>summer</code>: May 15 to September 14</p></li>
 <li><p><code>winter</code>: November 1 to March 20</p></li>
 <li><p><code>transition</code>: March 21 to May 14, and September 15 to October 31</p></li>
-</ul><p>There are 3 different characteristic days:</p><ul><li><p><code>workday</code>: Monday to Friday</p></li>
-<li><p><code>saturday</code>: Saturdays; Dec 24th and Dec 31th are considered a Saturday too,
+</ul><p>Day definitions:</p><ul><li><p><code>workday</code>: Monday to Friday</p></li>
+<li><p><code>saturday</code>: Saturdays; Dec 24th and Dec 31th are considered a Saturdays too
 if they are not a Sunday</p></li>
-<li><p><code>sunday</code>: Sundays and all public holidays in Germany</p></li>
+<li><p><code>sunday</code>: Sundays and all public holidays</p></li>
 </ul></div>
 
     <div class="section level2">

diff --git a/reference/slp_generate.html b/reference/slp_generate.html
@@ -100,26 +100,25 @@ consumption of 1,000 kWh.</p>
     <h2 id="details">Details<a class="anchor" aria-label="anchor" href="#details"></a></h2>
     <p>In regards to the electricity market in Germany, the term "Standard Load
 Profile" refers to a representative pattern of electricity consumption over
-a specific period. These profiles are used to depict the expected electricity
+a specific period. These profiles can be used to depict the expected electricity
 consumption for various customer groups, such as households or businesses.</p>
-<p>In total there are 11 representative, standard load profiles for three
-different customer groups:</p><ul><li><p>Households: <code>H0</code></p></li>
+<p>For each distinct combination of <code>profile_id</code>, <code>period</code>, and <code>day</code>, there
+are 96 x 1/4 hour measurements of electrical power. Values are normalized so
+that they correspond to an annual consumption of 1,000 kWh. That is, summing
+up all the quarter-hourly consumption values for one year yields an approximate
+total of 1,000 kWh/a; for more information, refer to the 'Examples' section,
+or call <code><a href="../articles/algorithm-step-by-step.html">vignette("algorithm-step-by-step")</a></code>.</p>
+<p>In total there are 11 <code>profile_id</code> for three different customer groups:</p><ul><li><p>Households: <code>H0</code></p></li>
 <li><p>Commercial: <code>G0</code>, <code>G1</code>, <code>G2</code>, <code>G3</code>, <code>G4</code>, <code>G5</code>, <code>G6</code></p></li>
 <li><p>Agriculture: <code>L0</code>, <code>L1</code>, <code>L2</code></p></li>
 </ul><p>For more information and examples, call <code><a href="slp_info.html">slp_info()</a></code>.</p>
-<p>For each distinct combination of <code>profile_id</code>, <code>period</code>, and <code>day</code>, there
-are 96 x 1/4 hour measurements of electrical power. Values are normalized so
-that they correspond to an annual consumption of 1,000 kWh. Summing up all
-the quarter-hourly consumption values for one year yields an approximate
-total of 1,000 kWh/a; for more information, refer to the 'Examples' section,
-or call <code><a href="../articles/algorithm-step-by-step.html">vignette("algorithm-step-by-step")</a></code>.</p>
 <p>Period definitions:</p><ul><li><p><code>summer</code>: May 15 to September 14</p></li>
 <li><p><code>winter</code>: November 1 to March 20</p></li>
 <li><p><code>transition</code>: March 21 to May 14, and September 15 to October 31</p></li>
-</ul><p>Day definitions:</p><ul><li><p><code>saturday</code>: Saturdays; Dec 24th and Dec 31th are considered a Saturdays too
-if they are not a Sunday.</p></li>
-<li><p><code>sunday</code>: Sundays and all public holidays.</p></li>
-<li><p><code>workday</code>: Monday to Friday.</p></li>
+</ul><p>Day definitions:</p><ul><li><p><code>workday</code>: Monday to Friday</p></li>
+<li><p><code>saturday</code>: Saturdays; Dec 24th and Dec 31th are considered a Saturdays too
+if they are not a Sunday</p></li>
+<li><p><code>sunday</code>: Sundays and all public holidays</p></li>
 </ul><p><strong>Note</strong>: The package supports public holidays for Germany,
 retrieved from the <a href="https://github.com/nager/Nager.Date" class="external-link">nager.Date API</a>.
 Use the optional argument <code>state_code</code> to consider public holidays on a state
